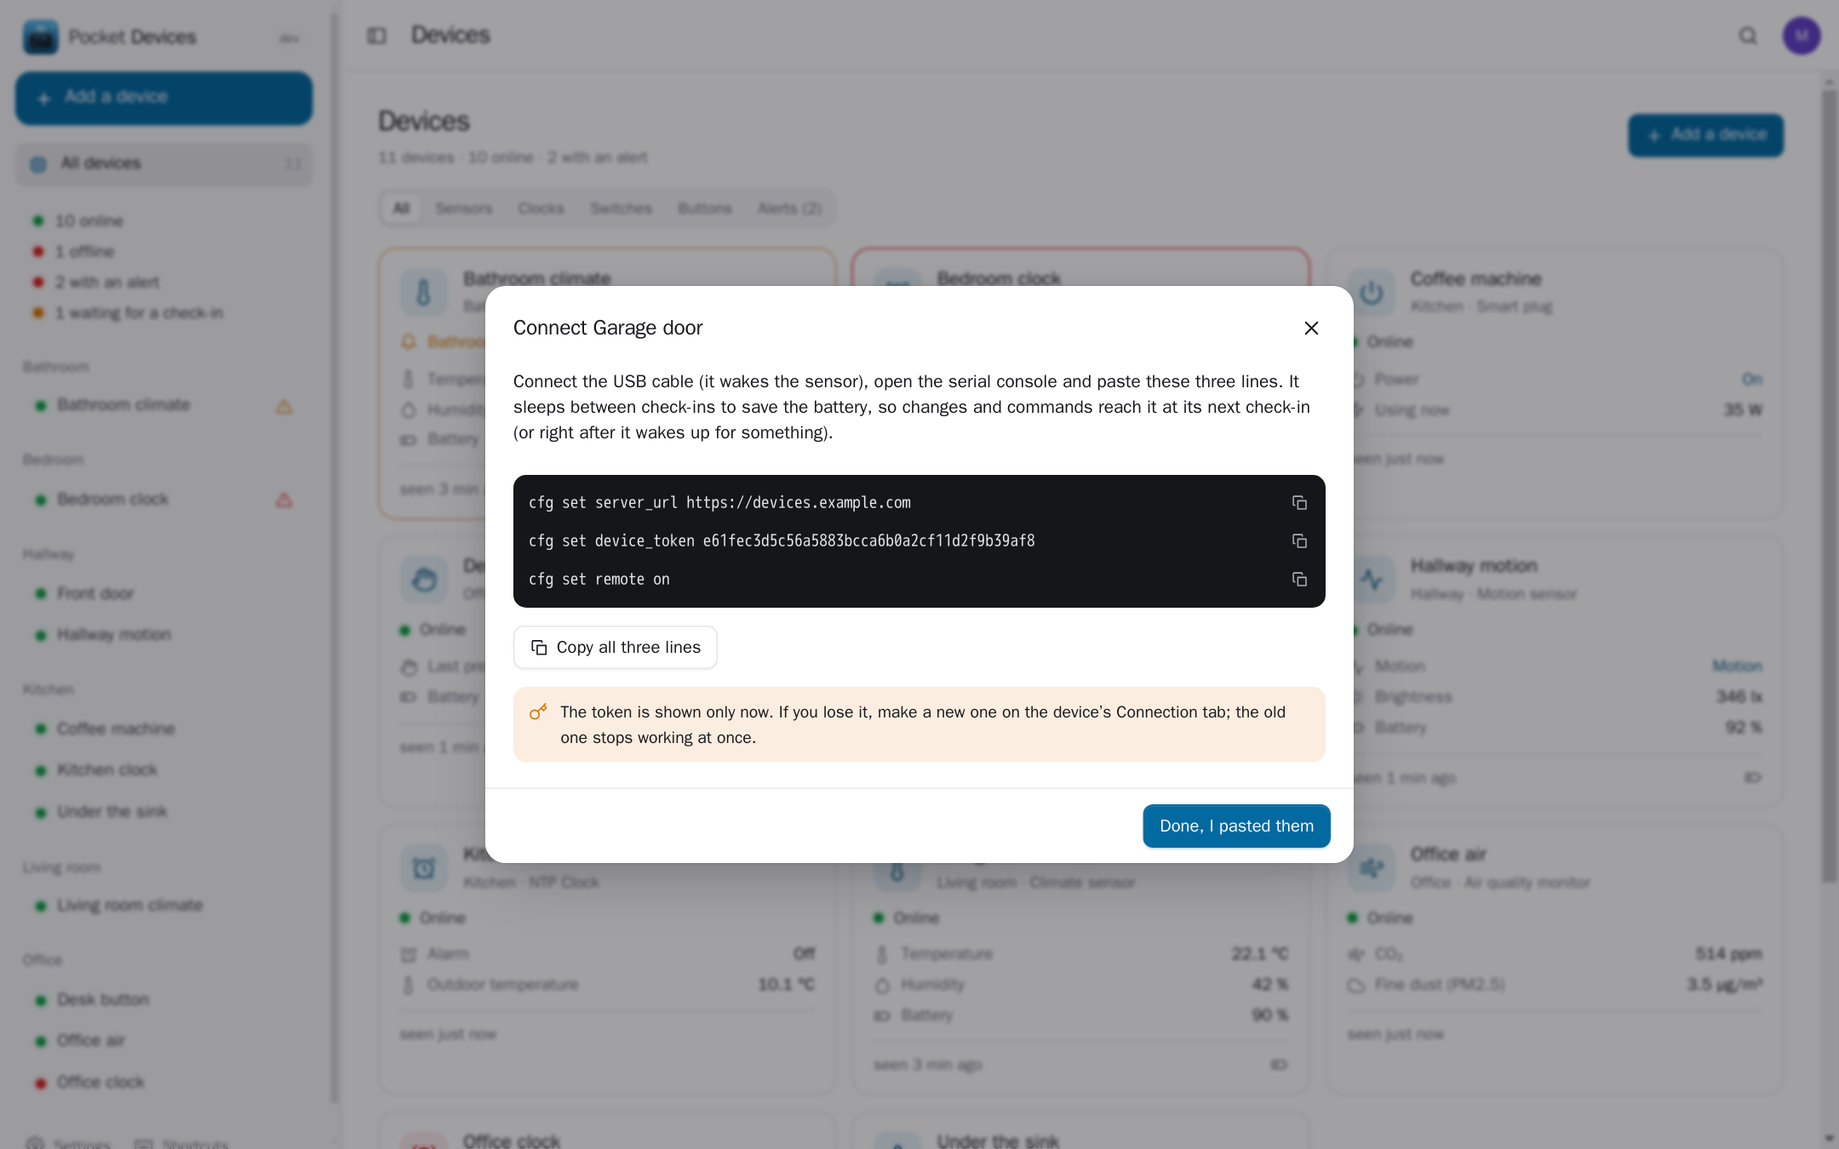
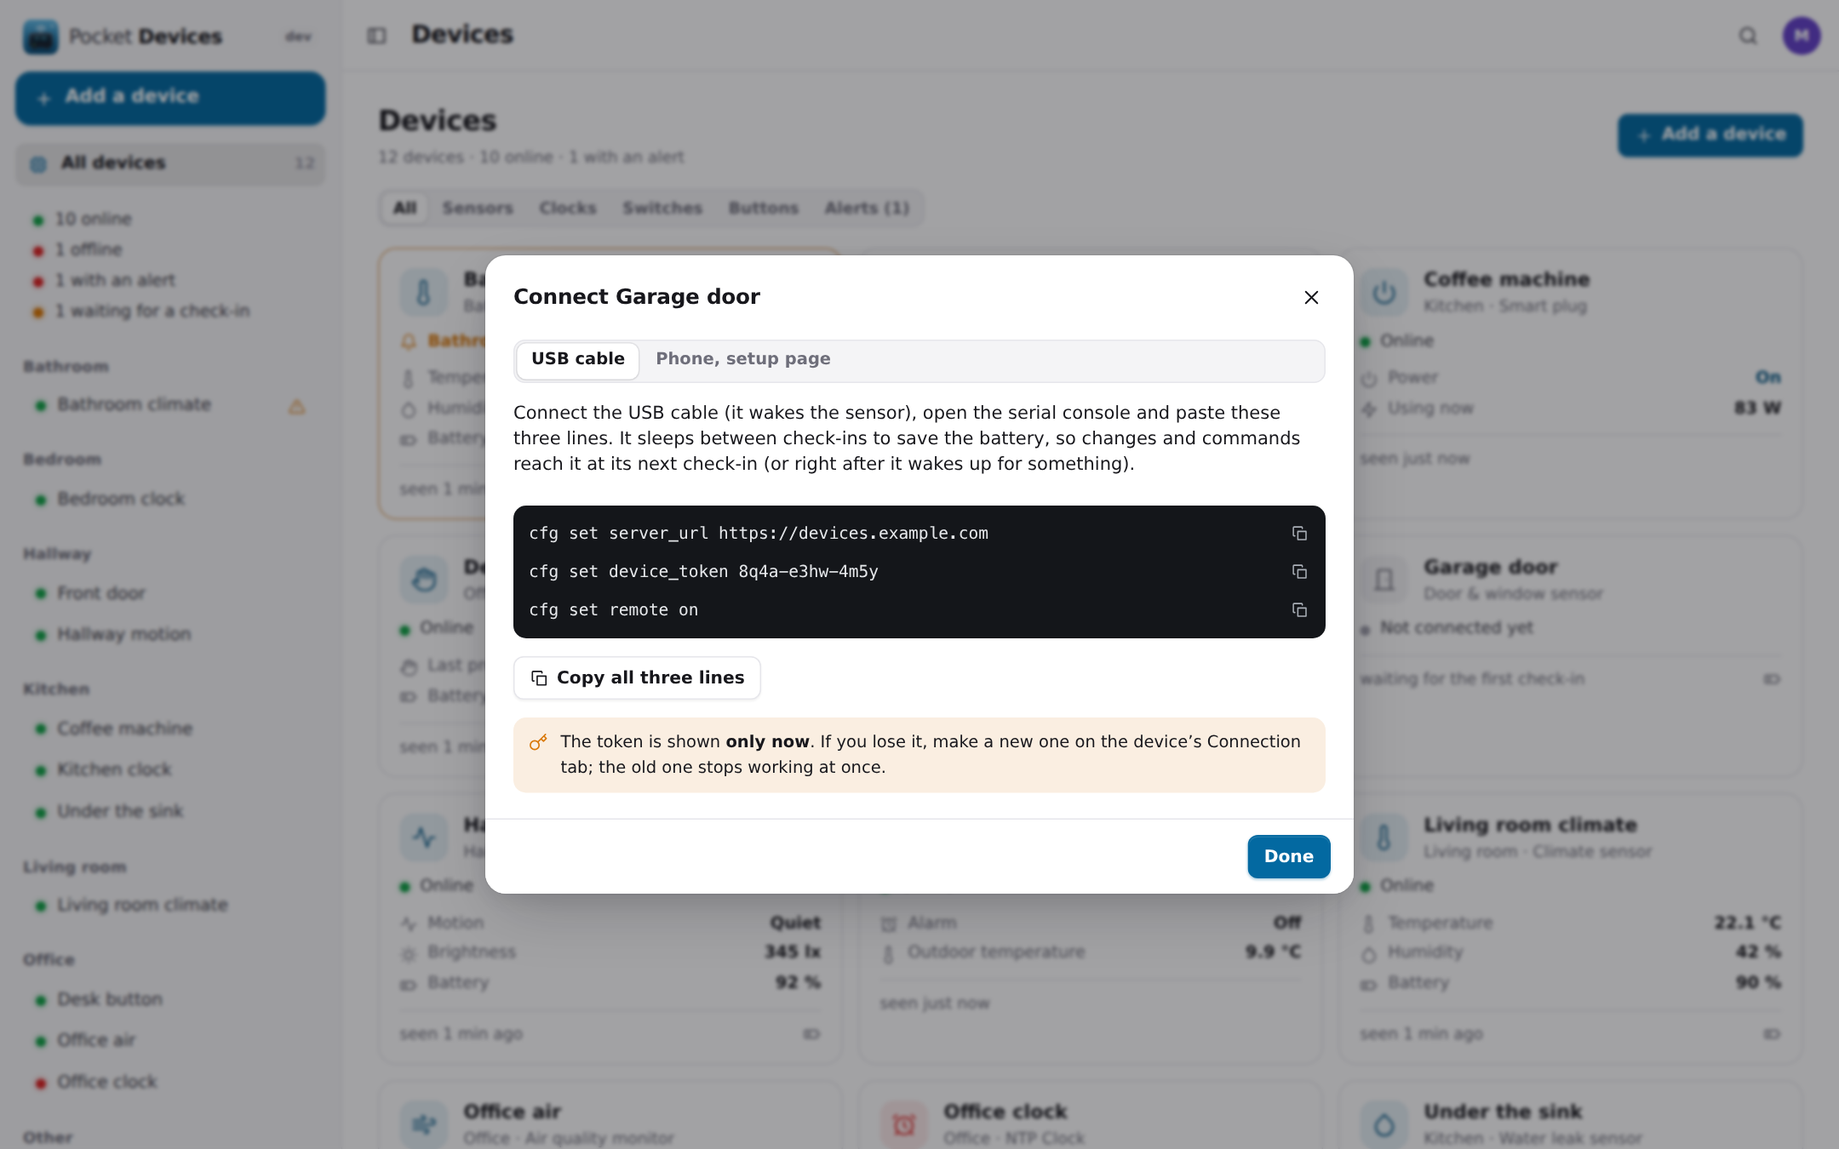
Set a device up from its phone setup page too; short tokens like k7m4-x9qp-3hrt (0.3.0)

diff --git a/web/src/components/AddDevice.tsx b/web/src/components/AddDevice.tsx
@@ -1,12 +1,12 @@
 // Add a device: kind, name, hardware id, place — then the token, shown once,
-// with the exact console lines to paste into the device.
+// with the console lines for the device, or the fields of its setup page.
 import React, { useState } from 'react'
 import { api, V1 } from '../lib/api'
 import { CATEGORY_LABEL, POWER_LABEL, kindIcon, useKinds } from '../lib/devices'
 import type { DeviceDetail } from '../lib/types'
 import { Icon } from './icons'
 import { Select } from './Select'
-import { Field, Loading, Modal, useToast } from './ui'
+import { Field, Loading, Modal, Segmented, useToast } from './ui'
 import { useDevices } from './Layout'
 
 export function AddDeviceModal({ onClose, onAdded }: { onClose: () => void; onAdded: (d: DeviceDetail) => void }) {
@@ -31,7 +31,7 @@ export function AddDeviceModal({ onClose, onAdded }: { onClose: () => void; onAd
   if (made) {
     return (
       <Modal title={`Connect ${made.device.name}`} onClose={() => onAdded(made)} size="lg"
-        footer={<button type="button" className="btn primary" onClick={() => onAdded(made)}>Done, I pasted them</button>}>
+        footer={<button type="button" className="btn primary" onClick={() => onAdded(made)}>Done</button>}>
         <SetupSteps detail={made} onCopied={() => toast('Copied')} />
       </Modal>
     )
@@ -81,22 +81,49 @@ export function AddDeviceModal({ onClose, onAdded }: { onClose: () => void; onAd
   )
 }
 
-/** The token (once) and the lines for the device's console. */
+type SetupWay = 'usb' | 'phone'
+const WAY_KEY = 'pdev-setup-way'
+
+/** The token (once) and the two ways to give it to the device: the lines
+ * for its USB console, or the fields of its own setup page (the device's
+ * WiFi network, opened from a phone). */
 export function SetupSteps({ detail, onCopied }: { detail: DeviceDetail; onCopied: () => void }) {
   const lines = detail.setup || []
+  const [way, setWay] = useState<SetupWay>(() => (localStorage.getItem(WAY_KEY) as SetupWay) || 'usb')
+  const pick = (w: SetupWay) => { setWay(w); localStorage.setItem(WAY_KEY, w) }
   const copy = (t: string) => { navigator.clipboard?.writeText(t).then(onCopied).catch(() => {}) }
   const insecure = !detail.server_url.startsWith('https://')
+  const copyBtn = (t: string, what: string) => <button type="button" className="btn ghost sm icon-only" aria-label={`Copy ${what}`} title={`Copy ${what}`} onClick={() => copy(t)}><Icon name="copy" size={14} /></button>
   return (
     <div className="stack">
-      <p>{detail.setup_help}</p>
-      <div className="console">
-        {lines.map(l => (
-          <div key={l} className="console-line"><code>{l}</code><button type="button" className="btn ghost sm icon-only" aria-label="Copy this line" title="Copy this line" onClick={() => copy(l)}><Icon name="copy" size={14} /></button></div>
-        ))}
-      </div>
-      <div className="row wrap"><button type="button" className="btn" onClick={() => copy(lines.join('\n'))}><Icon name="copy" size={15} />Copy all three lines</button></div>
+      <Segmented label="How to set it up" value={way} onChange={pick} options={[
+        { value: 'usb', label: 'USB cable' },
+        { value: 'phone', label: 'Phone, setup page' },
+      ]} />
+      {way === 'usb' ? <>
+        <p>{detail.setup_help}</p>
+        <div className="console">
+          {lines.map(l => (
+            <div key={l} className="console-line"><code>{l}</code>{copyBtn(l, 'this line')}</div>
+          ))}
+        </div>
+        <div className="row wrap"><button type="button" className="btn" onClick={() => copy(lines.join('\n'))}><Icon name="copy" size={15} />Copy all three lines</button></div>
+      </> : <>
+        <ol className="ap-steps">
+          <li><b>Open its setup network.</b> {detail.ap_help}</li>
+          <li><b>Join that WiFi network on your phone.</b> The setup page opens by itself; if it does not, open <code>http://{detail.ap_page || '192.168.4.1'}</code> in the browser.</li>
+          <li><b>Fill in the four fields and save.</b> The device joins your WiFi and checks in here within a minute.</li>
+        </ol>
+        <dl className="ap-fields">
+          <div><dt>WiFi name</dt><dd className="muted">your home WiFi</dd></div>
+          <div><dt>WiFi password</dt><dd className="muted">its password</dd></div>
+          <div><dt>Server address</dt><dd><code className="ap-value">{detail.server_url}</code>{copyBtn(detail.server_url, 'the server address')}</dd></div>
+          {detail.token && <div><dt>Token</dt><dd><code className="ap-value ap-token">{detail.token}</code>{copyBtn(detail.token, 'the token')}</dd></div>}
+        </dl>
+        <p className="muted small">While your phone is on the device’s network it has no internet, but this page stays open: switch back to it to copy. Dashes and capital letters in the token do not matter.</p>
+      </>}
       <div className="callout warn"><Icon name="key" size={15} /><div>The token is shown <b>only now</b>. If you lose it, make a new one on the device’s Connection tab; the old one stops working at once.</div></div>
-      {insecure && <div className="callout danger"><Icon name="alert" size={15} /><div>The address is not https://. The clock only talks to a server with a real certificate: set the address for your devices in Settings → General.</div></div>}
+      {insecure && <div className="callout danger"><Icon name="alert" size={15} /><div>The address is not https://. The device only talks to a server with a real certificate: set the address for your devices in Settings → General.</div></div>}
     </div>
   )
 }

diff --git a/web/src/pages/Device.tsx b/web/src/pages/Device.tsx
@@ -79,7 +79,7 @@ function Overview({ d, kind, reload, go }: { d: DeviceDetail; kind?: Kind; reloa
   if (dev.state === 'new') {
     return (
       <div className="stack loose">
-        <div className="callout info"><Icon name="plug" size={15} /><div><b>Waiting for the first check-in.</b> Paste the three lines into the device’s console (you saw them when you added it). Lost the token? Make a new one on the <button type="button" className="linkish" onClick={() => go('connection')}>Connection</button> tab.</div></div>
+        <div className="callout info"><Icon name="plug" size={15} /><div><b>Waiting for the first check-in.</b> Paste the three lines into the device’s console, or fill in its setup page from your phone (you saw both when you added it). Lost the token? Make a new one on the <button type="button" className="linkish" onClick={() => go('connection')}>Connection</button> tab.</div></div>
         {dev.pending > 0 && <p className="muted small">The settings you already chose here go out with the first answer.</p>}
       </div>
     )
@@ -538,6 +538,7 @@ function ConnectionTab({ d, kind, onSaved }: { d: DeviceDetail; kind: Kind; onSa
         <div className="console mt">
           {kind.setup.map(l => <div key={l} className="console-line"><code>{l.replace('{url}', d.server_url).replace('{token}', '<the token>')}</code></div>)}
         </div>
+        <p className="muted small mt">Or on the device’s own setup page (its WiFi network, from your phone): your WiFi name and password, <b>Server address</b> <code>{d.server_url}</code> and the <b>Token</b>.</p>
         <div className="row wrap mt"><button type="button" className="btn" onClick={() => setAsk('token')}><Icon name="key" size={15} />Make a new token</button></div>
       </section>
       <section className="card danger-zone">

diff --git a/web/src/styles/devices.css b/web/src/styles/devices.css
@@ -254,6 +254,16 @@ span.block { display: block; }
 .console-line code { flex: 1; color: inherit; font-size: 13px; white-space: pre; padding: 4px 0; }
 .console-line .btn { color: #aab0b8; }
 .console-line .btn:hover { color: #fff; background: rgba(255,255,255,.08); }
+.ap-steps { margin: 0; padding-left: 20px; display: grid; gap: 8px; }
+.ap-steps li { padding-left: 2px; }
+.ap-fields { margin: 0; display: grid; border: 1px solid var(--border); border-radius: 10px; background: var(--surface-2); }
+.ap-fields > div { display: grid; grid-template-columns: 130px minmax(0, 1fr); align-items: center; gap: 10px; padding: 8px 8px 8px 12px; border-top: 1px solid var(--border); min-height: 44px; }
+.ap-fields > div:first-child { border-top: 0; }
+.ap-fields dt { font-size: 13px; font-weight: 600; color: var(--muted); }
+.ap-fields dd { margin: 0; display: flex; align-items: center; gap: 6px; min-width: 0; }
+.ap-value { flex: 1; min-width: 0; overflow-wrap: anywhere; font-size: 13.5px; background: none; padding: 0; }
+.ap-token { font-size: 20px; font-weight: 650; letter-spacing: .06em; }
+@media (max-width: 520px) { .ap-fields > div { grid-template-columns: 1fr; gap: 2px; } }
 
 /* history */
 .log { display: grid; background: var(--surface); border: 1px solid var(--border); border-radius: var(--radius-lg, 14px); }
@@ -323,3 +333,4 @@ form.grid, div.grid { display: grid; }
 .kind-back { justify-self: start; margin: -8px 0 -6px; }
 .kind-strip { display: flex; flex-wrap: wrap; gap: 6px; justify-content: center; }
 .kind-chip { display: inline-flex; align-items: center; gap: 6px; padding: 4px 10px; border-radius: 999px; background: var(--surface-2); font-size: 12.5px; color: var(--text-2); }
+.setup-way { justify-self: start; }

diff --git a/web/src/lib/types.ts b/web/src/lib/types.ts
@@ -41,7 +41,7 @@ export interface Kind {
   hw_id: { label: string; help: string; example: string; format: string }
   token: { min: number; max: number }
   poll: { default: number; min: number; max: number }
-  setup: string[]; setup_help: string
+  setup: string[]; setup_help: string; ap_help: string; ap_page: string
   groups: { id: string; label: string }[]
   settings: SettingDef[]
   commands: CommandDef[]
@@ -65,7 +65,7 @@ export interface Device {
 export interface SettingRowT { key: string; desired: string | null; reported: string | null; secret_set?: boolean; pending: boolean; error?: string; changed_at?: string }
 export interface DeviceDetail {
   device: Device; settings: SettingRowT[]; server_url: string
-  token?: string; setup?: string[]; setup_help?: string
+  token?: string; setup?: string[]; setup_help?: string; ap_help?: string; ap_page?: string
 }
 export interface Command { id: number; device_id: number; name: string; args: Record<string, unknown>; state: 'queued' | 'sent' | 'done' | 'failed' | 'cancelled'; result: string; actor: string; created_at: string; sent_at: string; done_at: string }
 export interface LogEntry { id: number; device_id: number; at: string; actor: string; action: string; key: string; old: string; new: string; detail: string }

diff --git a/internal/server/devices_api.go b/internal/server/devices_api.go
@@ -279,9 +279,9 @@ func (s *Server) handleCreateDevice(w http.ResponseWriter, r *http.Request) {
 		writeErr(w, http.StatusBadRequest, "name and place are at most 80 characters")
 		return
 	}
-	token := store.RandomToken(20)
+	token := store.NewDeviceToken()
 	d := &store.Device{Kind: k.ID, Name: in.Name, HWID: hwid, Location: strings.TrimSpace(in.Location), Notes: strings.TrimSpace(in.Notes),
-		TokenHash: store.HashToken(token), TokenHint: token[:6], PollS: k.Poll.Default, NotifyOffline: in.NotifyOffline == nil || *in.NotifyOffline}
+		TokenHash: store.HashDeviceToken(token), TokenHint: store.NormalizeDeviceToken(token)[:4], PollS: k.Poll.Default, NotifyOffline: in.NotifyOffline == nil || *in.NotifyOffline}
 	if err := s.store.CreateDevice(ctx, actorID(ctx), d, actorName(ctx)); err != nil {
 		if errors.Is(err, store.ErrConflict) {
 			writeErr(w, http.StatusConflict, "a device with this "+strings.ToLower(k.HWID.Label)+" is already on this server")
@@ -293,6 +293,7 @@ func (s *Server) handleCreateDevice(w http.ResponseWriter, r *http.Request) {
 	url := s.deviceURL(ctx)
 	out := s.deviceDetail(ctx, d)
 	out["token"], out["setup"], out["setup_help"] = token, setupLines(k, url, token), k.SetupHelp
+	out["ap_help"], out["ap_page"] = k.APHelp, k.APPage
 	writeJSON(w, http.StatusCreated, out)
 }
 
@@ -372,8 +373,8 @@ func (s *Server) handleNewToken(w http.ResponseWriter, r *http.Request) {
 		return
 	}
 	k, _ := kinds.Get(d.Kind)
-	token := store.RandomToken(20)
-	if err := s.store.SetDeviceToken(ctx, uid, d.ID, store.HashToken(token), token[:6]); err != nil {
+	token := store.NewDeviceToken()
+	if err := s.store.SetDeviceToken(ctx, uid, d.ID, store.HashDeviceToken(token), store.NormalizeDeviceToken(token)[:4]); err != nil {
 		s.fail(w, err, "new token")
 		return
 	}
@@ -383,6 +384,7 @@ func (s *Server) handleNewToken(w http.ResponseWriter, r *http.Request) {
 	out["token"] = token
 	if k != nil {
 		out["setup"], out["setup_help"] = setupLines(k, s.deviceURL(ctx), token), k.SetupHelp
+		out["ap_help"], out["ap_page"] = k.APHelp, k.APPage
 	}
 	writeJSON(w, http.StatusOK, out)
 }

diff --git a/internal/store/users.go b/internal/store/users.go
@@ -5,6 +5,7 @@ import (
 	"crypto/rand"
 	"crypto/sha256"
 	"encoding/hex"
+	"strings"
 	"time"
 )
 
@@ -106,6 +107,39 @@ func RandomToken(n int) string {
 	_, _ = rand.Read(b)
 	return hex.EncodeToString(b)
 }
+
+// deviceTokenChars are easy to read and type: no 0/o, 1/l/i.
+const deviceTokenChars = "23456789abcdefghjkmnpqrstuvwxyz"
+
+// NewDeviceToken returns a short token that is easy to type on a phone,
+// like "k7m4-x9qp-3hrt": 12 characters (~59 bits), shown in groups of
+// four. Guessing is held back by the per-address limit on wrong tokens.
+func NewDeviceToken() string {
+	var b strings.Builder
+	buf := make([]byte, 1)
+	for n := 0; n < 12; {
+		_, _ = rand.Read(buf)
+		if int(buf[0]) >= 256-256%len(deviceTokenChars) {
+			continue // keeps every character equally likely
+		}
+		if n > 0 && n%4 == 0 {
+			b.WriteByte('-')
+		}
+		b.WriteByte(deviceTokenChars[int(buf[0])%len(deviceTokenChars)])
+		n++
+	}
+	return b.String()
+}
+
+// NormalizeDeviceToken is the form a device token is hashed in: dashes
+// and spaces dropped, lower case — so "K7M4 X9QP 3HRT" works too. Older
+// hex tokens are unchanged by it.
+func NormalizeDeviceToken(t string) string {
+	return strings.ToLower(strings.NewReplacer("-", "", " ", "").Replace(strings.TrimSpace(t)))
+}
+
+// HashDeviceToken hashes a device token in its normal form.
+func HashDeviceToken(t string) string { return HashToken(NormalizeDeviceToken(t)) }
 
 // HashToken returns the sha256 hex digest of a token.
 func HashToken(t string) string {

diff --git a/internal/kinds/kinds.go b/internal/kinds/kinds.go
@@ -159,15 +159,20 @@ type Kind struct {
 		Min     int `json:"min"`
 		Max     int `json:"max"`
 	} `json:"poll"`
-	Setup     []string          `json:"setup"`
-	SetupHelp string            `json:"setup_help"`
-	Groups    []Group           `json:"groups"`
-	Settings  []Setting         `json:"settings"`
-	Commands  []Command         `json:"commands"`
-	Readings  []Reading         `json:"readings"`
-	Alerts    []Alert           `json:"alerts"`
-	Events    []Event           `json:"events"`
-	Warnings  map[string]string `json:"warnings"`
+	Setup     []string `json:"setup"`
+	SetupHelp string   `json:"setup_help"`
+	// The device's own setup network (access point): how to open it and
+	// the address of its setup page, where the person types the WiFi
+	// login, the server address and the token.
+	APHelp   string            `json:"ap_help"`
+	APPage   string            `json:"ap_page"`
+	Groups   []Group           `json:"groups"`
+	Settings []Setting         `json:"settings"`
+	Commands []Command         `json:"commands"`
+	Readings []Reading         `json:"readings"`
+	Alerts   []Alert           `json:"alerts"`
+	Events   []Event           `json:"events"`
+	Warnings map[string]string `json:"warnings"`
 
 	byKey map[string]*Setting
 }
@@ -229,7 +234,7 @@ func Parse(b []byte) (*Kind, error) {
 		s.DefaultOK = err == nil
 	}
 	if k.Token.Min == 0 {
-		k.Token.Min, k.Token.Max = 32, 64
+		k.Token.Min, k.Token.Max = 12, 64
 	}
 	readings := map[string]*Reading{}
 	for i := range k.Readings {

diff --git a/internal/server/devices_test.go b/internal/server/devices_test.go
@@ -9,6 +9,7 @@ import (
 	"log/slog"
 	"net/http"
 	"net/http/httptest"
+	"regexp"
 	"strings"
 	"testing"
 	"time"
@@ -115,8 +116,11 @@ func (a *app) addClock(auth, mac string) (int64, string, *sim.Device, *sim.Clien
 	a.t.Helper()
 	m := a.expect(201, auth, "POST", "/api/v1/devices", map[string]any{"kind": "ntp-clock", "name": "Clock " + mac[:4], "hw_id": mac, "location": "Bedroom"})
 	tok, _ := m["token"].(string)
-	if len(tok) < 32 || len(tok) > 64 {
-		a.t.Fatalf("token %q is not 32..64 characters", tok)
+	if !regexp.MustCompile(`^[2-9a-hjkmnp-z]{4}-[2-9a-hjkmnp-z]{4}-[2-9a-hjkmnp-z]{4}$`).MatchString(tok) {
+		a.t.Fatalf("token %q is not xxxx-xxxx-xxxx", tok)
+	}
+	if m["ap_page"] != "192.168.4.1" || m["ap_help"] == "" {
+		a.t.Fatalf("setup page: %v %v", m["ap_page"], m["ap_help"])
 	}
 	setup, _ := m["setup"].([]any)
 	if len(setup) != 3 || setup[0] != "cfg set server_url https://devices.test" || setup[1] != "cfg set device_token "+tok || setup[2] != "cfg set remote on" {

diff --git a/internal/store/devicetoken_test.go b/internal/store/devicetoken_test.go
@@ -1,0 +1,31 @@
+package store
+
+import (
+	"regexp"
+	"testing"
+)
+
+func TestDeviceToken(t *testing.T) {
+	re := regexp.MustCompile(`^[2-9a-hjkmnp-z]{4}-[2-9a-hjkmnp-z]{4}-[2-9a-hjkmnp-z]{4}$`)
+	seen := map[string]bool{}
+	for i := 0; i < 500; i++ {
+		tok := NewDeviceToken()
+		if !re.MatchString(tok) {
+			t.Fatalf("token %q is not xxxx-xxxx-xxxx", tok)
+		}
+		if seen[tok] {
+			t.Fatalf("token %q twice", tok)
+		}
+		seen[tok] = true
+	}
+	tok := "k7m4-x9qp-3hrt"
+	for _, typed := range []string{"k7m4x9qp3hrt", "K7M4-X9QP-3HRT", " k7m4 x9qp 3hrt "} {
+		if HashDeviceToken(typed) != HashDeviceToken(tok) {
+			t.Fatalf("%q does not match %q", typed, tok)
+		}
+	}
+	old := "0123456789abcdef0123456789abcdef01234567" // tokens made before 0.3.0
+	if HashDeviceToken(old) != HashToken(old) {
+		t.Fatal("an older hex token no longer matches")
+	}
+}

diff --git a/internal/kinds/kinds_test.go b/internal/kinds/kinds_test.go
@@ -37,7 +37,7 @@ var protocolRanges = map[string][2]int{
 	"date_secs": {0, 3600}, "temp_secs": {0, 3600}, "alarm_page_secs": {0, 3600}, "brightness": {1, 100}, "bright_min": {1, 100},
 	"ldr_dark_mv": {1, 3300}, "ldr_bright_mv": {2, 3300}, "alarm_secs": {1, 600}, "alarm_sound": {0, 6}, "place": {0, 47},
 	"lat": {-90, 90}, "lon": {-180, 180}, "weather_poll": {5, 1440}, "wifi_tx": {2, 20}, "ap_fallback_n": {0, 100},
-	"server_url": {1, 96}, "device_token": {32, 64}, "remote_poll_s": {10, 3600},
+	"server_url": {1, 96}, "device_token": {12, 64}, "remote_poll_s": {10, 3600},
 }
 
 func TestTableMatchesProtocol(t *testing.T) {

diff --git a/internal/server/sync.go b/internal/server/sync.go
@@ -93,7 +93,7 @@ func (s *Server) handleDeviceSync(w http.ResponseWriter, r *http.Request) {
 		s.fail(w, err, "device")
 		return
 	}
-	if subtle.ConstantTimeCompare([]byte(store.HashToken(tok)), []byte(d.TokenHash)) != 1 {
+	if subtle.ConstantTimeCompare([]byte(store.HashDeviceToken(tok)), []byte(d.TokenHash)) != 1 {
 		s.limits.fail(ip)
 		s.log.Info("device: wrong token", "device", d.HWID, "ip", ip)
 		writeErr(w, http.StatusUnauthorized, "wrong token")

diff --git a/docs/protocol.md b/docs/protocol.md
@@ -20,9 +20,18 @@ set through this protocol; the console stays as it is.
   `https://clock.example.com` (no trailing slash).
 - Device id: the WiFi MAC address, 12 upper case hex digits, e.g. `A1B2C3D4E5F6`.
 - Authentication: header `Authorization: Bearer <device_token>`. The token is a
-  random secret of 32 to 64 characters, one per device, created on the server
-  and typed into the clock (`cfg set device_token ...`). The server stores
-  only a hash. A wrong token gives `401`.
+  random secret, one per device, created on the server and typed into the
+  clock (`cfg set device_token ...`, or the Token field of its setup page).
+  Pocket Devices makes short tokens that are easy to type on a phone:
+  12 characters from `23456789abcdefghjkmnpqrstuvwxyz` in groups of four,
+  e.g. `k7m4-x9qp-3hrt` (14 with the dashes). The server ignores dashes,
+  spaces and capital letters, so `K7M4X9QP3HRT` works as well. The clock must
+  accept 12 to 64 characters (older 40-character tokens keep working). The
+  server stores only a hash. A wrong token gives `401`.
+- The clock's own setup page (its WiFi network, setup mode) has four fields:
+  WiFi name, WiFi password, server address (`server_url`) and token
+  (`device_token`). Pocket Devices shows both
+  ways when a device is added: the console lines and the setup-page values.
 - Bodies are JSON (`Content-Type: application/json`, UTF-8), at most 8 KiB.
 
 ## The one endpoint: `POST /api/v1/device/sync`
@@ -167,7 +176,7 @@ Type: `text`, `number` (integer with range), `bool` (`on`/`off`), `hhmm`
 | `log` | bool | | off | log lines on the serial console |
 | `remote` | bool | | off | the clock talks to the server (never changed by it) |
 | `server_url` | text | https URL, 1 .. 96 | empty | never changed by the server |
-| `device_token` | text (secret) | 32 .. 64 | empty | never changed by the server |
+| `device_token` | text (secret) | 12 .. 64 | empty | never changed by the server |
 | `remote_poll_s` | number | 10 .. 3600 | 30 | default poll interval when the server gives none |
 
 The authoritative list of keys and rules is `app/cfg/src/cfg.c`; the server
